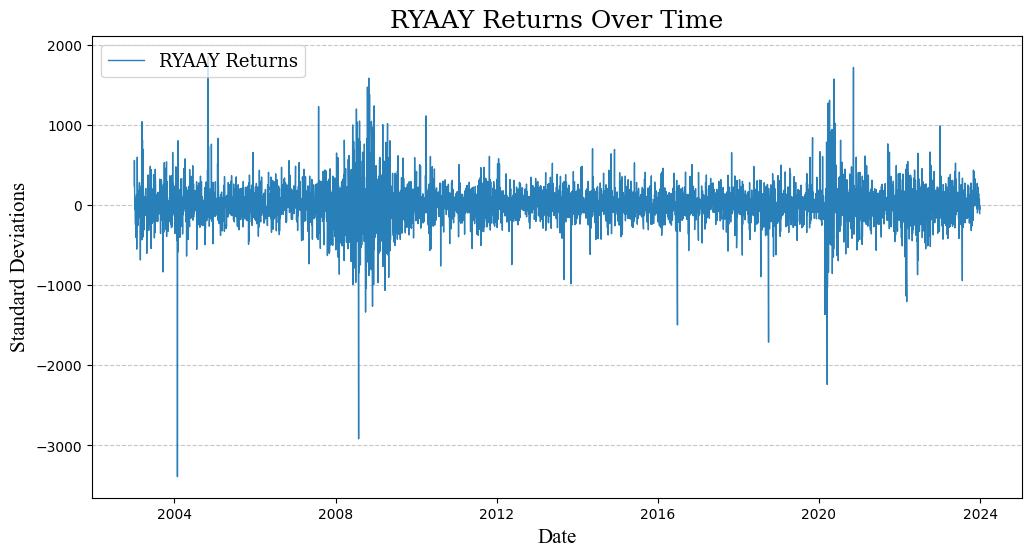
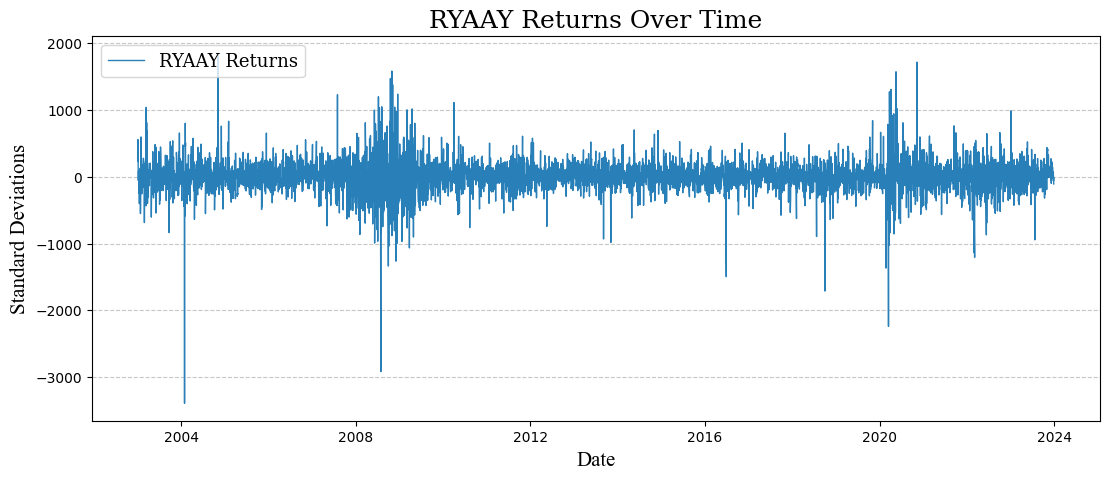
plots

diff --git a/Plot_Trading_days_data.py b/Plot_Trading_days_data.py
@@ -55,7 +55,7 @@ dates = trading_days_data.index.tolist()
 datetime_objs = [datetime.strptime(date_str, '%Y-%m-%d %H:%M:%S') for date_str in dates]
 
 # Plot data
-plt.figure(figsize=(15, 5))
+plt.figure(figsize=(16, 4))
 # Calculate 60-period moving average
 ma_window = 60
 moving_average_sentiment = np.convolve(list(trading_days_data['Positive_Sentiment']), np.ones(ma_window)/ma_window, mode='valid')
@@ -67,12 +67,12 @@ plt.legend(loc='upper left', prop={'family': 'serif', 'size': 13})
 plt.xlabel('Date', fontsize=15, fontname='Times New Roman')
 plt.ylabel('Standard Deviations', fontsize=15, fontname='Times New Roman')
 plt.grid(axis='y', linestyle='--', alpha=0.7)
-plt.tick_params(axis='both', which='major', labelsize=10)
-plt.savefig('Plots/Positive_Sentiment_Over_Time.png', bbox_inches='tight')
+plt.tick_params(axis='both', which='major', labelsize=12)
+#plt.savefig('Plots/Positive_Sentiment_Over_Time.png', bbox_inches='tight')
 #plt.show()
 
 # Plot data
-plt.figure(figsize=(15, 5))
+plt.figure(figsize=(16, 4))
 # Calculate 60-period moving average
 ma_window = 60
 moving_average_sentiment = np.convolve(list(trading_days_data['Negative_Sentiment']), np.ones(ma_window)/ma_window, mode='valid')
@@ -84,25 +84,26 @@ plt.legend(loc='upper left', prop={'family': 'serif', 'size': 13})
 plt.xlabel('Date', fontsize=15, fontname='Times New Roman')
 plt.ylabel('Standard Deviations', fontsize=15, fontname='Times New Roman')
 plt.grid(axis='y', linestyle='--', alpha=0.7)
-plt.tick_params(axis='both', which='major', labelsize=10)
-plt.savefig('Plots/Negative_Sentiment_Over_Time.png', bbox_inches='tight')
+plt.tick_params(axis='both', which='major', labelsize=12)
+#plt.savefig('Plots/Negative_Sentiment_Over_Time.png', bbox_inches='tight')
 #plt.show()
 
 # Plot data
-plt.figure(figsize=(15, 6))
+plt.figure(figsize=(16, 4))
 # Calculate 60-period moving average
-ma_window = 30
+ma_window = 60
 moving_average_sentiment = np.convolve(list(trading_days_data['Media_Volume']), np.ones(ma_window)/ma_window, mode='valid')
-plt.plot(datetime_objs, trading_days_data['Media_Volume'], label='Media Volume', color='#2980b9', linewidth=1)
-#plt.plot(datetime_objs[ma_window//2:-ma_window//2], moving_average_sentiment[1:], label='60-day Moving Average', color='#e74c3c', linewidth=1)
+plt.plot(datetime_objs, trading_days_data['Media_Volume'], label='Article Count', color='#2980b9', linewidth=1)
+plt.plot(datetime_objs[ma_window//2:-ma_window//2], moving_average_sentiment[1:], label='60-day Moving Average', color='#e74c3c', linewidth=1)
 plt.title('Daily Article Count Over Time', fontsize=18, fontfamily='serif')
 plt.gca().xaxis.set_major_formatter(mdates.DateFormatter('%Y'))
+plt.ylim(0, 60)
 plt.legend(loc='upper left', prop={'family': 'serif', 'size': 13})
-plt.xlabel('Date', fontsize=17, fontname='Times New Roman')
-plt.ylabel('Article Count (Articles)', fontsize=17, fontname='Times New Roman')
+plt.xlabel('Date', fontsize=15, fontname='Times New Roman')
+plt.ylabel('Article Count (Articles)', fontsize=15, fontname='Times New Roman')
 plt.grid(axis='y', linestyle='--', alpha=0.7)
 plt.tick_params(axis='both', which='major', labelsize=12)
-#plt.savefig('Plots/Media_Volume_Over_Time.png', bbox_inches='tight')
+plt.savefig('Plots/Media_Volume_Over_Time.png', bbox_inches='tight')
 #plt.show()
 plt.close()
 
@@ -163,7 +164,7 @@ print("SUM", sum(list(monthly_counts.values())))
     
 
 
-plt.figure(figsize=(12, 6))
+plt.figure(figsize=(13, 5))
 plt.plot(datetime_objs, list(trading_days_data['Returns']), label='RYAAY Returns', color='#2980b9', linewidth=1)
 plt.title('RYAAY Returns Over Time', fontsize=18, fontfamily='serif')
 plt.gca().xaxis.set_major_formatter(mdates.DateFormatter('%Y'))
